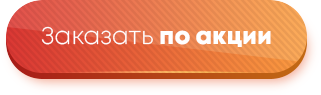
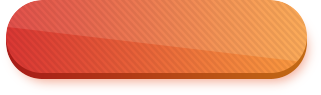
alcotox фикс кнопки в форме

Changed region(s): [[0.1246, 0.2737, 0.8411, 0.5053], [0.2804, 0.7368, 0.7477, 0.7789]]

diff --git a/alcatox/template/index.html b/alcatox/template/index.html
@@ -54,7 +54,7 @@
             <input type="text" class="form__field">
             <span>Телефон</span>
         </div>
-        <button class="form__btn"></button>
+        <div class="form__btn">Заказать <b>по акции</b></div>
     </div>
     <!-- устанавливаем время в атрибуте data-time (время устанавливается в секундах) -->
 <div class="timer">
@@ -141,7 +141,7 @@
             <div class="chance__title wow bounceInLeft" data-wow-offset="200">
                 У вас еще есть <span>шанс <mark>все изменить!</mark></span>
             </div>
-            <div class="chance__btn"></div>
+            <div class="chance__btn">Заказать <b>по акции</b></div>
         </div>
     </div>
 </section>
@@ -225,9 +225,9 @@
                 <div class="commits__item">
                     <div class="commits__item-head">Анонимно, 43 года</div>
                     <div class="commits__item-body">
-                        <div class="commits__item-face">
+                        <!-- <div class="commits__item-face">
                             <img src="../media/commits/face-1.png" alt="">
-                        </div>
+                        </div> -->
                         <div class="commits__item-description">
                             Мой муж постоянно пил после работы, каждый день, я замучалась ругаться с ним! Сто раз говорил, что завязал, но я постоянно находила его “тайники”. За два года запои сделали из него типичного алкоголика, а из меня истеричку с дёргающимся глазом. Заказала Alcotox, поставила ультиматум: либо лечишься, либо развод. Я увидела наконец трезвого мужа! И после этого пьяным уже ни разу! Люди, милые, Alcotox работает! Больше года уже не пьет!
                         </div>
@@ -338,7 +338,7 @@
             <input type="text" class="form__field">
             <span>Телефон</span>
         </div>
-        <button class="form__btn"></button>
+        <div class="form__btn">Заказать <b>по акции</b></div>
     </div>
     <!-- устанавливаем время в атрибуте data-time (время устанавливается в секундах) -->
 <div class="timer">

diff --git a/alcatox/css/style.css b/alcatox/css/style.css
@@ -3801,6 +3801,10 @@ THE SOFTWARE IS PROVIDED "AS IS", WITHOUT WARRANTY OF ANY KIND, EXPRESS OR IMPLI
   height: 95px;
   margin-right: auto;
   margin-left: auto;
+  font-size: 24px;
+  line-height: 71px;
+  color: #fff;
+  text-align: center;
   cursor: pointer;
   background-image: url("../media/chance/btn.png");
   background-repeat: no-repeat;
@@ -3898,6 +3902,7 @@ THE SOFTWARE IS PROVIDED "AS IS", WITHOUT WARRANTY OF ANY KIND, EXPRESS OR IMPLI
 
   .chance__btn {
     margin-right: auto;
+    line-height: 71px;
   }
 
   .chance__sub-title {
@@ -4728,6 +4733,10 @@ THE SOFTWARE IS PROVIDED "AS IS", WITHOUT WARRANTY OF ANY KIND, EXPRESS OR IMPLI
   height: 95px;
   margin-right: auto;
   margin-left: auto;
+  font-size: 24px;
+  line-height: 71px;
+  color: #fff;
+  text-align: center;
   cursor: pointer;
   background-color: transparent;
   background-image: url("../media/chance/btn.png");
@@ -4759,6 +4768,7 @@ THE SOFTWARE IS PROVIDED "AS IS", WITHOUT WARRANTY OF ANY KIND, EXPRESS OR IMPLI
 
   .form__btn {
     height: 115px;
+    line-height: 93px;
   }
 }
 
@@ -4816,7 +4826,7 @@ THE SOFTWARE IS PROVIDED "AS IS", WITHOUT WARRANTY OF ANY KIND, EXPRESS OR IMPLI
     margin-right: auto;
     margin-left: auto;
     font-size: 18px;
-    line-height: 55px;
+    line-height: 62px;
   }
 }
 
